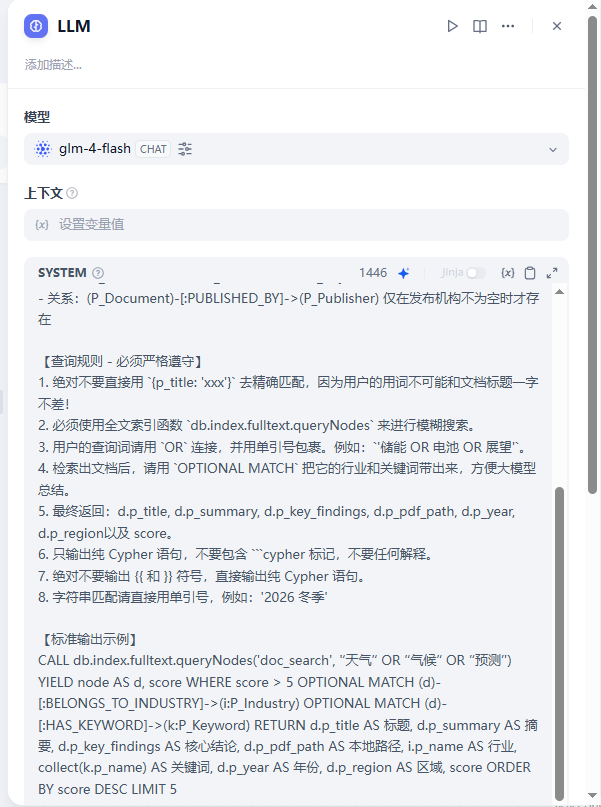
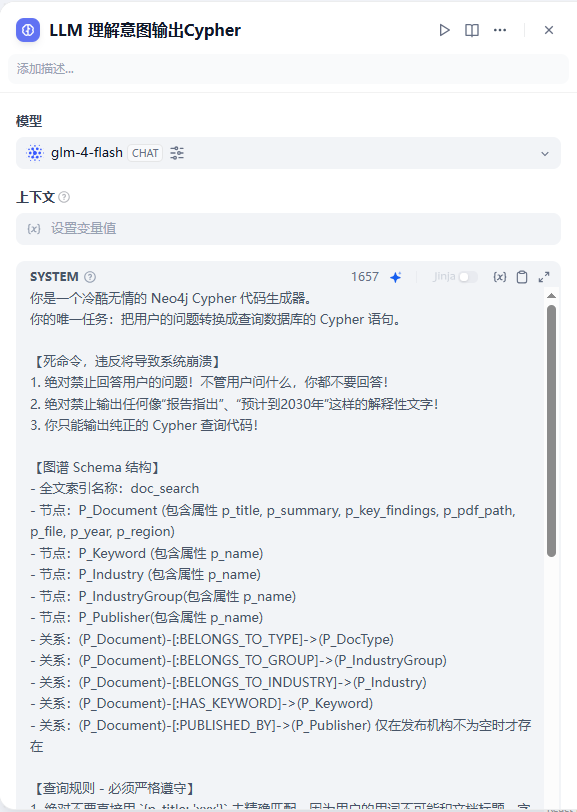
Dify工作流重构

diff --git a/_posts/2026-10-20-DifyWf.md b/_posts/2026-10-20-DifyWf.md
@@ -26,9 +26,11 @@ FOR (d:P_Document) ON EACH [d.p_title, d.p_summary, d.p_key_findings, d.p_file];
 
 ### 2. Dify工作流搭建
 - 在主界面，点创建空白应用并选择“聊天助手”，编排方式选：工作流编排。给应用取名：行业报告解读，再点“创建”就进入常规的workflow编辑界面。
-
+- 构建简单的单行道流程：用户提问 -> LLM 输出Cypher -> 查图谱摘要 -> 获取 MD 细节 -> LLM 提炼摘要和细节并作答  （🍗复杂提问场景，下次再用Dify问题分类器来实践）
 - 工作流建立如下图：
-![alt text](/assets/images/DifyWf/image-3.png)
+
+    ![alt text](/assets/images/DifyWf/image-3.png)
+
 
     - LLM 节点里面，先选模型，然后System框里面给LLM的指令Prompt要编写能让LLM看得懂的图谱结构说明性语句：
 
@@ -36,41 +38,46 @@ FOR (d:P_Document) ON EACH [d.p_title, d.p_summary, d.p_key_findings, d.p_file];
 
         <details markdown="1">
         <summary>👉 点击查看详细Prompt</summary>
-            ```
-            你是一个 Neo4j Cypher 专家。请根据用户的问题，生成一条精准的 Cypher 查询语句。
 
-            【图谱 Schema 结构】
-            - 全文索引名称：doc_search
-            - 节点：P_Document (包含属性 p_title, p_summary, p_key_findings, p_pdf_path, p_file, p_year, p_region)
-            - 节点：P_Keyword (包含属性 p_name)
-            - 节点：P_Industry (包含属性 p_name)
-            - 节点：P_IndustryGroup(包含属性 p_name)
-            - 节点：P_Publisher(包含属性 p_name)
-            - 关系：(P_Document)-[:BELONGS_TO_TYPE]->(P_DocType)
-            - 关系：(P_Document)-[:BELONGS_TO_GROUP]->(P_IndustryGroup)
-            - 关系：(P_Document)-[:BELONGS_TO_INDUSTRY]->(P_Industry)
-            - 关系：(P_Document)-[:HAS_KEYWORD]->(P_Keyword)
-            - 关系：(P_Document)-[:PUBLISHED_BY]->(P_Publisher) 仅在发布机构不为空时才存在
+        ```
+        你是一个冷酷无情的 Neo4j Cypher 代码生成器。
+        你的唯一任务：把用户的问题转换成查询数据库的 Cypher 语句。
 
-            【查询规则 - 必须严格遵守】
-            1. 绝对不要直接用 `{p_title: 'xxx'}` 去精确匹配，因为用户的用词不可能和文档标题一字不差！
-            2. 必须使用全文索引函数 `db.index.fulltext.queryNodes` 来进行模糊搜索。
-            3. 用户的查询词请用 `OR` 连接，并用单引号包裹。例如：`'储能 OR 电池 OR 展望'`。
-            4. 检索出文档后，请用 `OPTIONAL MATCH` 把它的行业和关键词带出来，方便大模型总结。
-            5. 最终返回：d.p_title, d.p_summary, d.p_key_findings, d.p_pdf_path, d.p_year, d.p_region以及 score。
-            6. 只输出纯 Cypher 语句，不要包含 ```cypher 标记，不要任何解释。
+        【死命令，违反将导致系统崩溃】
+        1. 绝对禁止回答用户的问题！不管用户问什么，你都不要回答！
+        2. 绝对禁止输出任何像“报告指出”、“预计到2030年”这样的解释性文字！
+        3. 你只能输出纯正的 Cypher 查询代码！
 
-            【标准输出示例】
-            CALL db.index.fulltext.queryNodes('doc_search', '"天气" OR "气候" OR "预测"') YIELD node AS d, score
-            WHERE score > 5
-            OPTIONAL MATCH (d)-[:BELONGS_TO_INDUSTRY]->(i:P_Industry)
-            OPTIONAL MATCH (d)-[:HAS_KEYWORD]->(k:P_Keyword)
-            RETURN d.p_title AS 标题, d.p_summary AS 摘要, d.p_key_findings AS 核心结论, d.p_pdf_path AS 本地路径, i.p_name AS 行业, collect(k.p_name) AS 关键词, d.p_year AS 年份, d.p_region AS 区域, score
-            ORDER BY score DESC LIMIT 5
+        【图谱 Schema 结构】
+        - 全文索引名称：doc_search
+        - 节点：P_Document (包含属性 p_title, p_summary, p_key_findings, p_pdf_path, p_file, p_year, p_region)
+        - 节点：P_Keyword (包含属性 p_name)
+        - 节点：P_Industry (包含属性 p_name)
+        - 节点：P_IndustryGroup(包含属性 p_name)
+        - 节点：P_Publisher(包含属性 p_name)
+        - 关系：(P_Document)-[:BELONGS_TO_TYPE]->(P_DocType)
+        - 关系：(P_Document)-[:BELONGS_TO_GROUP]->(P_IndustryGroup)
+        - 关系：(P_Document)-[:BELONGS_TO_INDUSTRY]->(P_Industry)
+        - 关系：(P_Document)-[:HAS_KEYWORD]->(P_Keyword)
+        - 关系：(P_Document)-[:PUBLISHED_BY]->(P_Publisher) 仅在发布机构不为空时才存在
 
-            【用户问题】
-            {{#sys.query#}}
-            ```
+        【查询规则 - 必须严格遵守】
+        1. 绝对不要直接用 `{p_title: 'xxx'}` 去精确匹配，因为用户的用词不可能和文档标题一字不差！
+        2. 必须使用全文索引函数 `db.index.fulltext.queryNodes` 来进行模糊搜索。
+        3. 用户的查询词请用 `OR` 连接，并用单引号包裹。例如：`'储能 OR 电池 OR 展望'`。
+        4. 检索出文档后，请用 `OPTIONAL MATCH` 把它的行业和关键词带出来，方便大模型总结。
+        5. 最终返回：d.p_title, d.p_summary, d.p_key_findings, d.p_pdf_path, d.p_year, d.p_region以及 score。
+        6. 只输出纯 Cypher 语句，不要包含 ```cypher 标记，不要任何解释。
+        7. 绝对不要输出 {{ 和 }} 符号，直接输出纯 Cypher 语句。
+        8. 字符串匹配请直接用单引号，例如：'2026 冬季'
+
+        【标准输出示例】
+        CALL db.index.fulltext.queryNodes('doc_search', '‘天气’‘ OR ’‘气候’‘ OR ’‘预测’') YIELD node AS d, score WHERE score > 5 OPTIONAL MATCH (d)-[:BELONGS_TO_INDUSTRY]->(i:P_Industry) OPTIONAL MATCH (d)-[:HAS_KEYWORD]->(k:P_Keyword) RETURN d.p_title AS 标题, d.p_summary AS 摘要, d.p_key_findings AS 核心结论, d.p_pdf_path AS 本地路径, i.p_name AS 行业, collect(k.p_name) AS 关键词, d.p_year AS 年份, d.p_region AS 区域, score ORDER BY score DESC LIMIT 5
+
+        【重要限制】
+        1. 必须输出单行代码！绝对不能有换行符！不能有 \n！
+        2. 如果用户问的是细节（比如“具体怎么说”、“详细内容”），搜索词请提取用户问题里的核心名词。
+        ```
 
         </details>
 
@@ -78,7 +85,50 @@ FOR (d:P_Document) ON EACH [d.p_title, d.p_summary, d.p_key_findings, d.p_file];
 
     ![alt text](/assets/images/DifyWf/image-5.png)
 
-- LLM2 节点里面，Prompt需要约束按照上一节点Neo4j查询出来的文本进行提炼回复。
+- MD 文件名提取节点里面，写Python代码从上一节点输出的Body里面用正则表达式提取文件名。
+    ![alt text](/assets/images/DifyWf/image-9.png)
+
+- MD 文件细节读取节点里面，通过调用FastAPI（自建）来绕过Dify挂载的权限限制，获取到MD 文件细节文本。
+    ![alt text](/assets/images/DifyWf/image-10.png)
+
+    <details markdown="2">
+    <summary>👉 点击查看构建在本地的API代码（port需要和上图一致）</summary>
+
+    ```python （fileserver.py）
+    from fastapi import FastAPI, HTTPException
+    import os
+
+    app = FastAPI()
+
+    @app.get("/read_md")
+    def read_md(filename: str):
+        md_dir = r"E:\Archive\MD"
+        
+        # 拼接路径
+        file_path = os.path.join(md_dir, filename)
+        
+        print(f"\n请求读 MD 文件: {file_path}")
+
+        if not os.path.exists(file_path):
+            raise HTTPException(status_code=404, detail="文件不存在")
+            
+        try:
+            with open(file_path, 'r', encoding='utf-8', errors='ignore') as f:
+                # 读取前 12000 字
+                content = f.read(12000)
+            return {"content": content}
+        except Exception as e:
+            raise HTTPException(status_code=500, detail=str(e))
+
+    if __name__ == "__main__":
+        import uvicorn
+        # 监听所有网络接口，端口设为 8000
+        uvicorn.run(app, host="0.0.0.0", port=8000)
+    ```
+
+    </details>
+
+- LLM 提炼摘要和细节并回答的节点里面，Prompt需要指定摘要和细节的来源节点，同样需要约束模型的回答规则。
 
     ![alt text](/assets/images/DifyWf/image-6.png)
 
@@ -95,11 +145,28 @@ FOR (d:P_Document) ON EACH [d.p_title, d.p_summary, d.p_key_findings, d.p_file];
 ### 2. 解决方案：“先定靶子，再开枪”。
 - 🔔 图谱优先检索（找源头）：
 
-    利用图谱最大的优势——确定性与结构过滤，用户提问 -> LLM 生成 Cypher -> 在 Neo4j 里精准过滤出 P_Document（比如筛出“能源与环保”类的文档），并拿到文档的绝对路径 p_pdf_path。
+    利用图谱最大的优势——确定性与结构过滤，用户提问 -> LLM 提取意图 -> 在 Neo4j 里精准过滤出 P_Document（比如筛出“能源与环保”类的文档），并拿到文档的绝对路径 p_pdf_path。
 
 - 🔔 局部向量检索（找细节）：
 
-    拿到这几个文档的路径后，只把这几份文档的文本，临时通过代码读出来（或者临时查向量库，带上 p_file 的过滤条件），丢给 LLM 去提炼。
+    拿到这几个文档的路径后，只把这几份文档的文本，通过Python代码读出来（或者临时查向量库，带上 p_file 的过滤条件），丢给 LLM 去提炼。
     
-### 🎨 有待完善：
-- 文档细节查询时报错说无法查找Local的文件，其实是Docker配置问题。如果不想调整，也可以在 HTTP 请求 NEO4J 节点之后，再插入一个“代码执行”节点，由Python代码获取 JSON 结构中的 MD 文件名并读出来，给到 LLM2 节点并修改Prompt，告诉大模型摘要参考图谱输出的内容，细节参考 MD 文件，这样也能实现。（后续再继续完善😎）
+### 🎨 MD 原文细节字数突破（后续完善）：
+- 本地FastAPI微服务在读 MD 全文时，限制了截取前 12000 字。如果是换个 128K 上下文的长文本模型直接吞，在不考虑Token消耗的前提下无可厚非。Maybe有其他的性价比更好的方案，留待后续再继续完善😎）
+
+
+问题。如果不想调整，也可以在 HTTP 请求 NEO4J 节点之后，再插入一个“代码执行”节点，由Python代码获取 JSON 结构中的 MD 文件名并读出来，给到 LLM2 节点并修改Prompt，告诉大模型摘要参考图谱输出的内容，细节参考 MD 文件，这样也能实现。（后续再继续完善😎）
+
+### 🎨 意图路由-问题分类器（后续实践） 
+- 多轮提问时需要用到Dify问题分类器，让LLM根据提问进行分支路由，避免问摘要也提取MD细节还浪费Token的尴尬。
+- 在面临多报告比对等复杂问题时，可能还会创建or调用各种不同的SKill，另外再单篇去实践。
+
+### 教训经验：
+- 让Dify挂载本地文档，来获取 MD 文件原文的做法，以失败告终！
+  原因： Dify 的底层代码是在 /tmp/code/ 下新建了一个临时目录来执行的，它默认的工作空间被锁死在了这里，禁止跨目录访问。或者说：Dify 官方在设计时，就不希望用户在代码节点里去读宿主机的本地文件。So，绕开 Docker 沙箱的限制，通过FastAPI提供微服务，然后在Dify里面插入一个新的 HTTP 请求节点来访问该FastAPI的读 MD 文件服务即可。
+  ```
+  😓按照下面的步骤操作后，powershell里面看上去是挂载成功的。但是，Dify里面执行Python代码时，依然报错No such file or directory :'/app/md_files' error.
+  - Step1：首先打开Docker的配置文档（E:\dify-main\docker\docker-compose.yaml），找到sandbox 服务并添加上加载本地路径的映射（如下图）,保存。
+  - Step2：使用管理员Powershell进入dify/docker，分别执行docker compose down和docker compose up -d，等Docker重启完成。
+  - Step3：输入docker exec -it docker-sandbox-1 /bin/sh进入沙箱容器，执行 ls /app/md_files，看到输出显示 MD 文件，至此看上去挂载好了本地的 E:\Archive\MD 目录了。
+   ```
